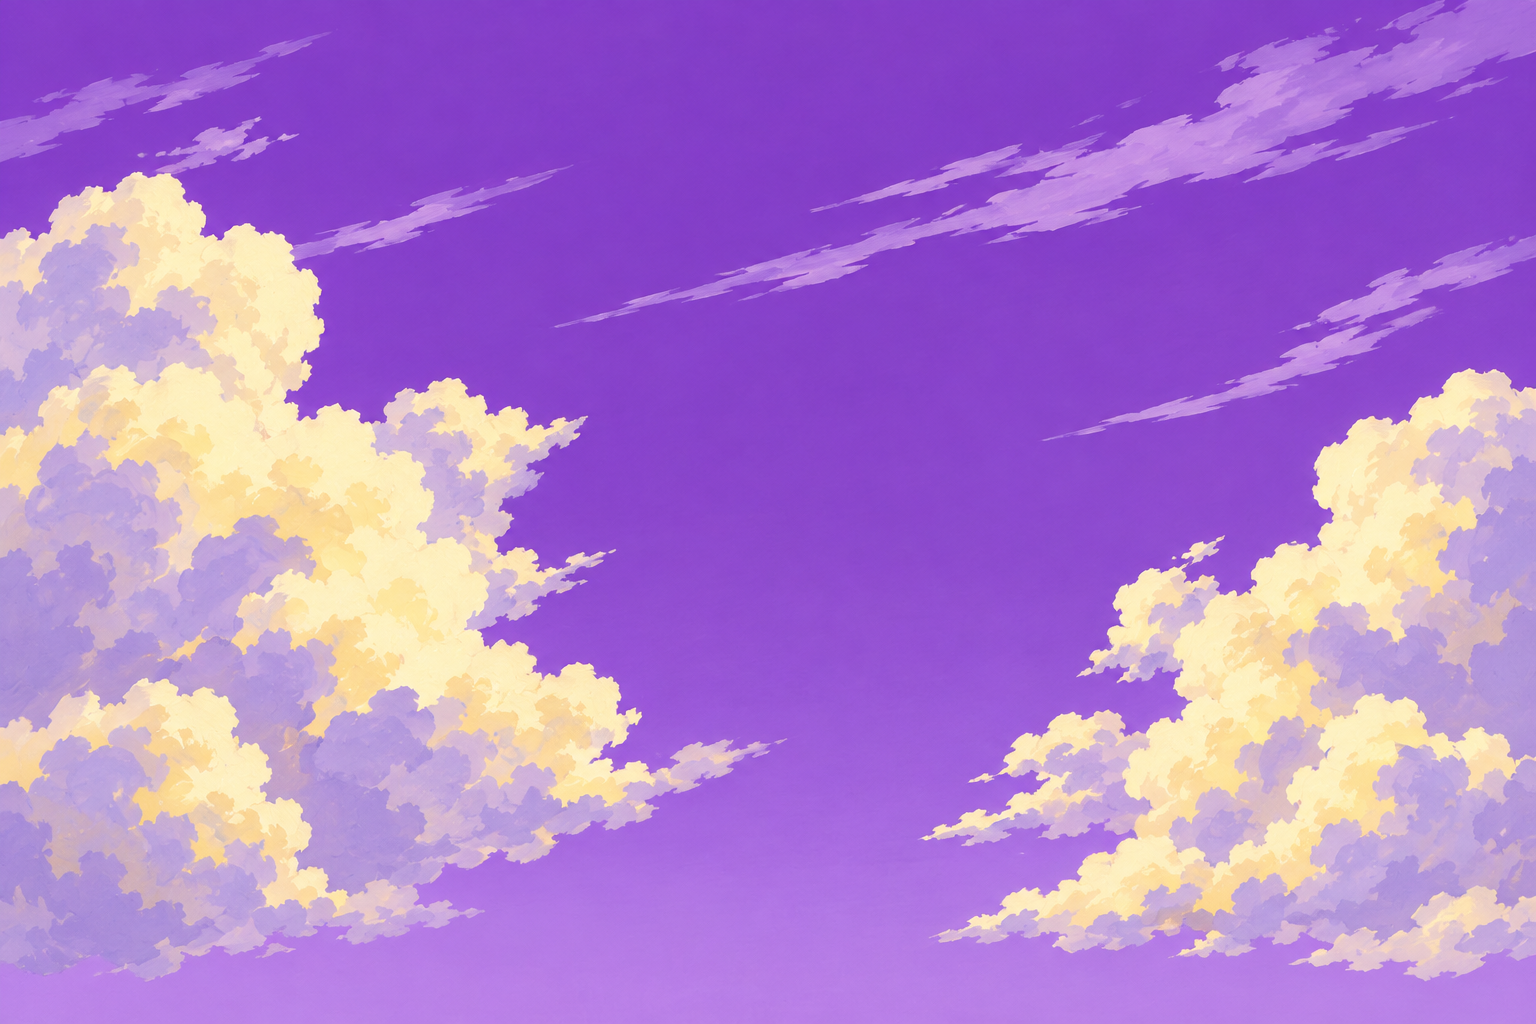
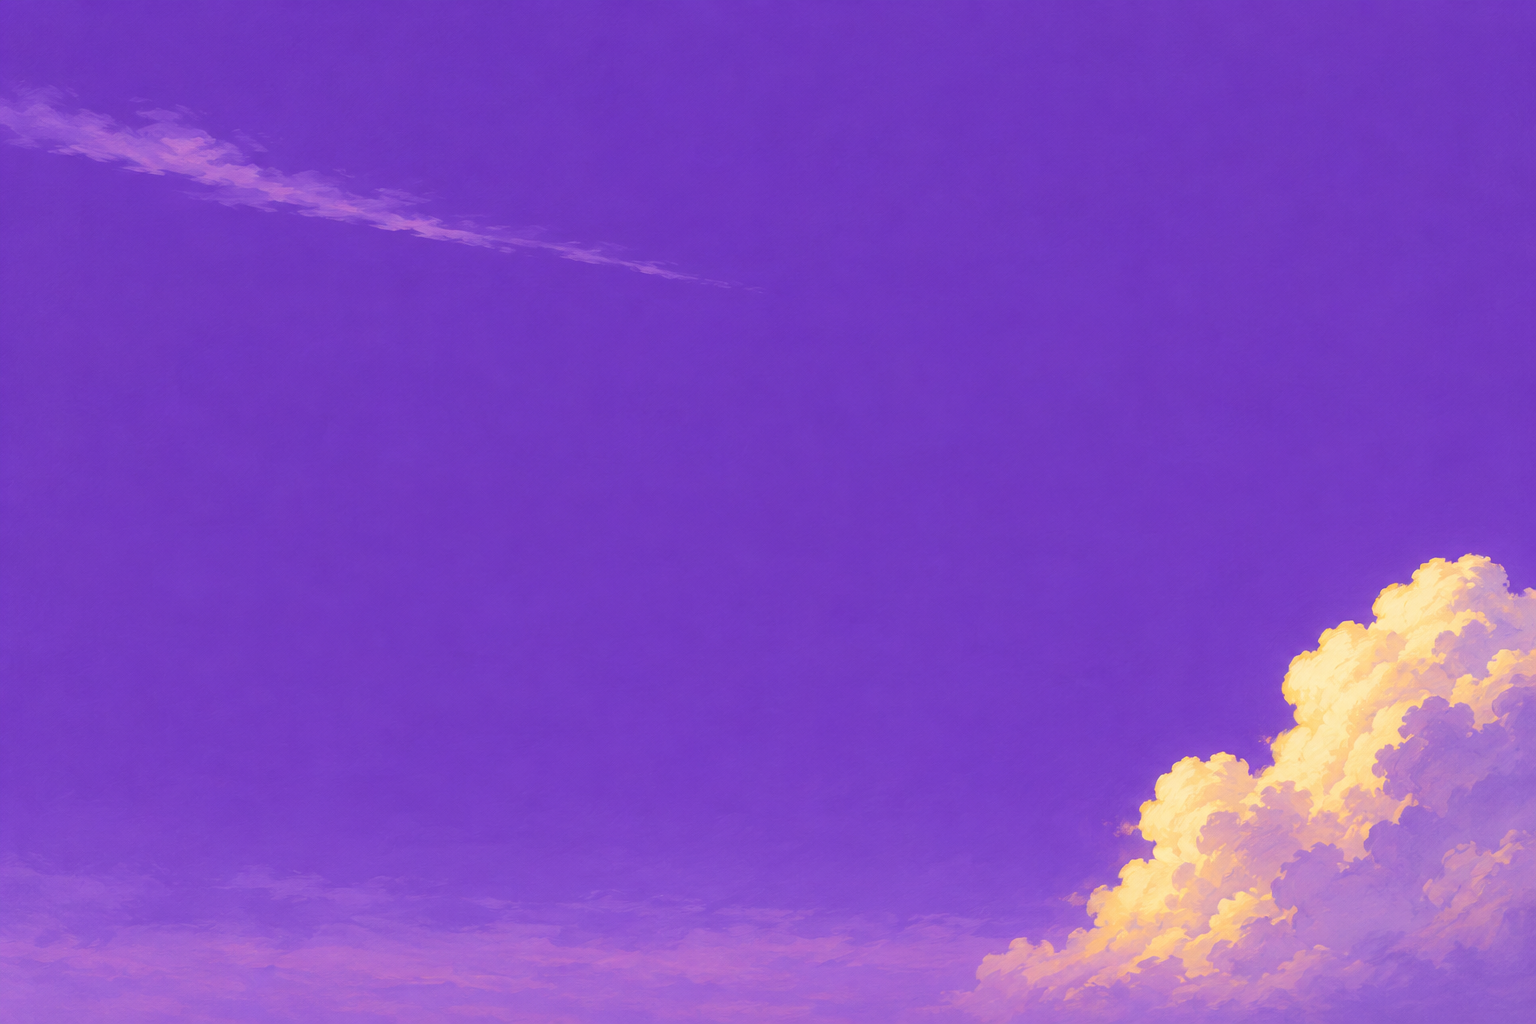
index2: nuevas ilustraciones del parallax y ajustes del hero
- Imágenes nuevas en parallax-1..4; posiciones y velocidades ajustadas, sin cortes visibles en ningún tamaño de pantalla
- Velocidad del parallax constante también mientras la Tesis pisa el hero; cielo sincronizado con Lenis (sin vibración)
- Texto del hero fijo, sin sombra ni fade; título a 90 y bajada a 18
- Sale capa-2-fondo-lago.png, que ya no se usa

diff --git a/index2.html b/index2.html
@@ -160,7 +160,7 @@ html.abierto{overflow:hidden}
 @media (prefers-reduced-motion:reduce){:root:not(.anim) .hero .capitulos{display:none}}
 .hero .copy{left:120px;top:calc(50% + 28px);translate:0 -50%;width:743px}
 .hero .copy>.tag{background:var(--amarillo);box-shadow:none}
-.hero h1{margin-top:47px;white-space:nowrap;font-size:100px}
+.hero h1{margin-top:47px;white-space:nowrap;font-size:90px}
 /* título: las letras suben desde abajo dentro de una máscara, igual que el wordmark del loader (al terminar el loader) */
 .hero h1 .pal{display:inline-block;white-space:nowrap;overflow:hidden;padding:.14em .02em .08em;margin:-.14em -.02em -.08em;vertical-align:top}
 .hero h1 .l{display:inline-block}
@@ -466,23 +466,23 @@ html.cargando{overflow:hidden;background:var(--tinta)}
    se baja hasta las flores, ahí queda fijo (sticky con top negativo) y la Tesis lo pisa.
    Parallax: al bajar (--h), lo de atrás se queda rezagado. */
 /* hero del alto del paisaje a lo ancho; scrollea normal (nada lo pisa) y la Tesis viene debajo */
-.hero{position:relative;top:auto;height:max(100vh,calc((100vw - 15px)/1.5))}
+/* hero alto: se baja hasta su pie, ahí queda fijo (sticky con top negativo) y la Tesis sube y lo pisa */
+.hero{--alto:calc(max(100vh,calc((100vw - 15px)/1.5)) + 400px);height:var(--alto);top:calc(100vh - var(--alto))}
 .hero .mili{display:none}
-/* el texto queda fijo, centrado en la pantalla, mientras se baja por el paisaje (fixed: sin JS, no vibra).
-   Se desvanece (--f) a medida que sube la Tesis y termina antes de que lo pise */
+/* el texto queda fijo, centrado en la pantalla (fixed: sin JS, no vibra). Sin fade: la Tesis sube y lo tapa */
 .hero{translate:none}
-.hero .copy{position:fixed;z-index:2;left:calc(var(--sangre) + 120px);top:calc(50vh + 28px);opacity:calc(1 - var(--f,0))!important}
+.hero .copy{position:fixed;z-index:2;left:calc(var(--sangre) + 120px);top:calc(50vh + 28px)}
 .hero .copy.ido{visibility:hidden}
 .hero .copy{filter:none!important}
-.hero .paisaje{position:absolute;left:calc(-1*var(--sangre));right:calc(-1*var(--sangre));top:0;bottom:0;overflow:hidden;pointer-events:none;background:#7B3FC6}
+.hero .paisaje{position:absolute;left:calc(-1*var(--sangre));right:calc(-1*var(--sangre));top:0;bottom:0;overflow:hidden;pointer-events:none;background:#7735B9}
 /* las 4 capas en el mismo lugar: ancho exacto de la pantalla, a su proporción, apoyadas abajo, sin parallax.
    Para acomodar cada una: --y (positivo baja, negativo sube) y --p (cuánto se mueve al bajar; 0 = quieta) */
 .hero .capa{position:absolute;left:0;bottom:0;width:100%;height:auto;max-width:none;will-change:translate;
-  translate:0 calc(var(--y,0px) + var(--sy,0px)*var(--k,0))}
-.hero .c1{--y:-200px;--k:.6}
-.hero .c2{--y:0px;--k:.42}
-.hero .c3{--y:200px;--k:.24}
-.hero .c4{--y:0px;--k:.08}
+  translate:0 calc(var(--y,0px) + var(--sy,0px)*var(--k,0) + var(--sz,0px)*(var(--k,0) - 1))}
+.hero .c1{--y:-590px;--k:.9;-webkit-mask-image:linear-gradient(transparent,#000 12%);mask-image:linear-gradient(transparent,#000 12%)}
+.hero .c2{--y:50px;--k:.62}
+.hero .c3{--y:100px;--k:.3}
+.hero .c4{--y:420px;--k:-.12}
 
 /* la Tesis sube y se solapa sobre el pie del paisaje: así no se ve dónde termina cada capa */
 
@@ -496,9 +496,9 @@ html:not(.cargando) .hero .c4{animation-delay:.45s}
 @keyframes aparece-cielo{from{opacity:0;transform:scale(1.06)}}
 @media (prefers-reduced-motion:reduce){:root:not(.anim) .hero .capa{animation:none;translate:none}}
 /* texto claro sobre el cielo */
-.hero .copy h1{color:var(--papel);text-shadow:0 2px 24px rgba(60,20,110,.35)}
+.hero .copy h1{color:var(--papel)}
 .hero .copy h1 .mark{background:none!important;color:var(--papel)}
-.hero .copy p{color:var(--papel);text-shadow:0 1px 12px rgba(40,20,80,.55)}
+.hero .copy p{font-size:18px;color:var(--papel)}
 .hero .copy>.tag{background:var(--amarillo)}
 .hero .btn.solid{background:var(--papel);color:var(--tinta);border-color:var(--papel)}
 .hero .btn.solid:hover{color:var(--tinta)}
@@ -548,10 +548,10 @@ html:not(.cargando) .hero .c4{animation-delay:.45s}
 <section class="hero" id="top">
   <div class="mili"></div>
   <div class="paisaje" aria-hidden="true">
-    <img class="capa c1" src="img/capa-1-cielo.png" alt="">
-    <img class="capa c2" src="img/capa-2-fondo-lago.png" alt="">
-    <img class="capa c3" src="img/capa-3-medio.png" alt="">
-    <img class="capa c4" src="img/capa-4-frente.png" alt="">
+    <img class="capa c1" src="img/parallax-1.png" alt="">
+    <img class="capa c2" src="img/parallax-2.png" alt="">
+    <img class="capa c3" src="img/parallax-3.png" alt="">
+    <img class="capa c4" src="img/parallax-4.png" alt="">
   </div>
   <div class="capitulos">
     <div class="cap"><span class="tag">01 · Laboratorio</span><h2 class="display d56">Todo empieza con una idea <span class="mark">en un laboratorio.</span></h2></div>
@@ -836,7 +836,7 @@ html:not(.cargando) .hero .c4{animation-delay:.45s}
   /* ---------- smooth scroll ---------- */
   let lenis=null;
   if(window.Lenis){
-    lenis=new Lenis({autoRaf:true,lerp:.075,anchors:{duration:1.6,easing:t=>t===1?1:1-Math.pow(2,-10*t)}});
+    lenis=window.lenisN=new Lenis({autoRaf:true,lerp:.075,anchors:{duration:1.6,easing:t=>t===1?1:1-Math.pow(2,-10*t)}});
     lenis.stop();
     // Teclado y barra de scroll: cortar la inercia para que Lenis no pise el scroll nativo.
     const cortar=e=>{if(!document.documentElement.matches('.cargando,.abierto')){lenis.stop();lenis.start()}};
@@ -1051,13 +1051,14 @@ html:not(.cargando) .hero .c4{animation-delay:.45s}
 })();
 </script>
 <script>
-  /* index2: --f = cuánto se desvaneció el texto del hero. Arranca cuando la Tesis asoma por abajo y llega a 1
-     cuando la Tesis está por alcanzar el pie del texto */
-  (()=>{const hero=document.querySelector('.hero'),copia=hero&&hero.querySelector('.copy'),tesis=document.querySelector('.tesis');if(!copia||!tesis)return;
-    const f=()=>{hero.style.setProperty('--sy',Math.min(Math.max(0,scrollY),hero.offsetHeight)+'px');const arriba=tesis.getBoundingClientRect().top,pie=copia.getBoundingClientRect().bottom+40;
-      const k=Math.min(1,Math.max(0,(innerHeight-arriba)/Math.max(1,innerHeight-pie)));
-      hero.style.setProperty('--f',k.toFixed(3));copia.classList.toggle('ido',k>=1)};
-    addEventListener('scroll',f,{passive:true});addEventListener('resize',f);f()})();
+  /* index2: --sy = scroll aplicado al parallax. Se actualiza en el mismo cuadro en que Lenis mueve la página
+     (con el evento scroll nativo llegaba un cuadro tarde y el cielo vibraba). El texto se oculta cuando ya quedó tapado */
+  (()=>{const hero=document.querySelector('.hero'),copia=hero&&hero.querySelector('.copy');if(!copia)return;
+    let ultimo=-1;
+    const f=y=>{y=Math.round(y);if(y===ultimo)return;ultimo=y;const H=hero.offsetHeight;
+      const P=H-innerHeight;hero.style.setProperty("--sy",Math.min(Math.max(0,y),P)+"px");hero.style.setProperty("--sz",Math.min(Math.max(0,y-P),innerHeight)+"px");copia.classList.toggle('ido',y>H)};
+    if(window.lenisN)window.lenisN.on('scroll',l=>f(l.animatedScroll));else addEventListener('scroll',()=>f(scrollY),{passive:true});
+    addEventListener('resize',()=>{ultimo=-1;f(scrollY)});f(scrollY)})();
 </script>
 </body>
 </html>
